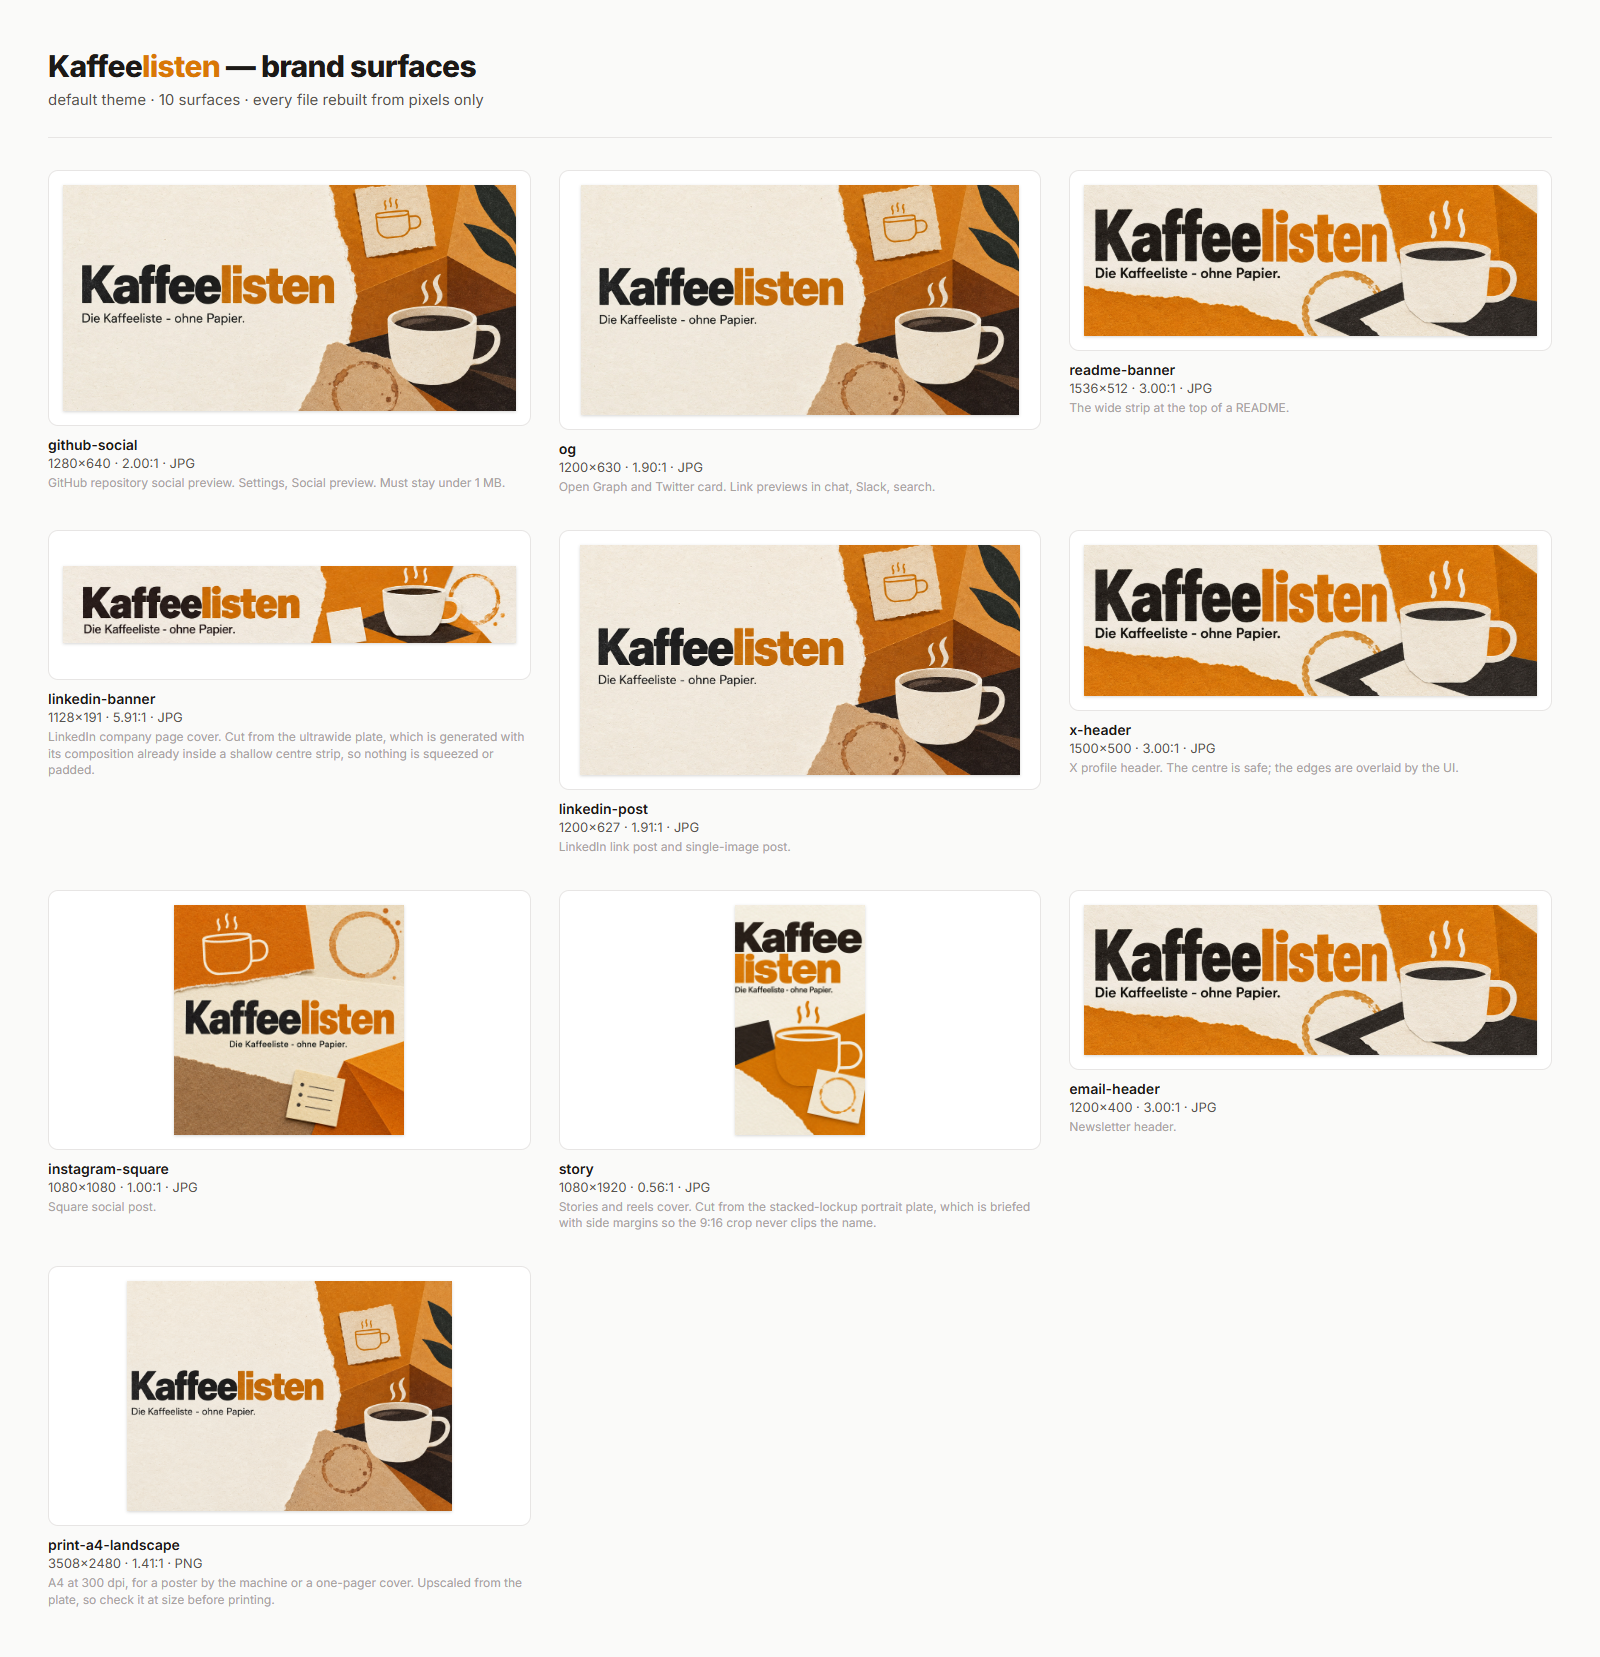
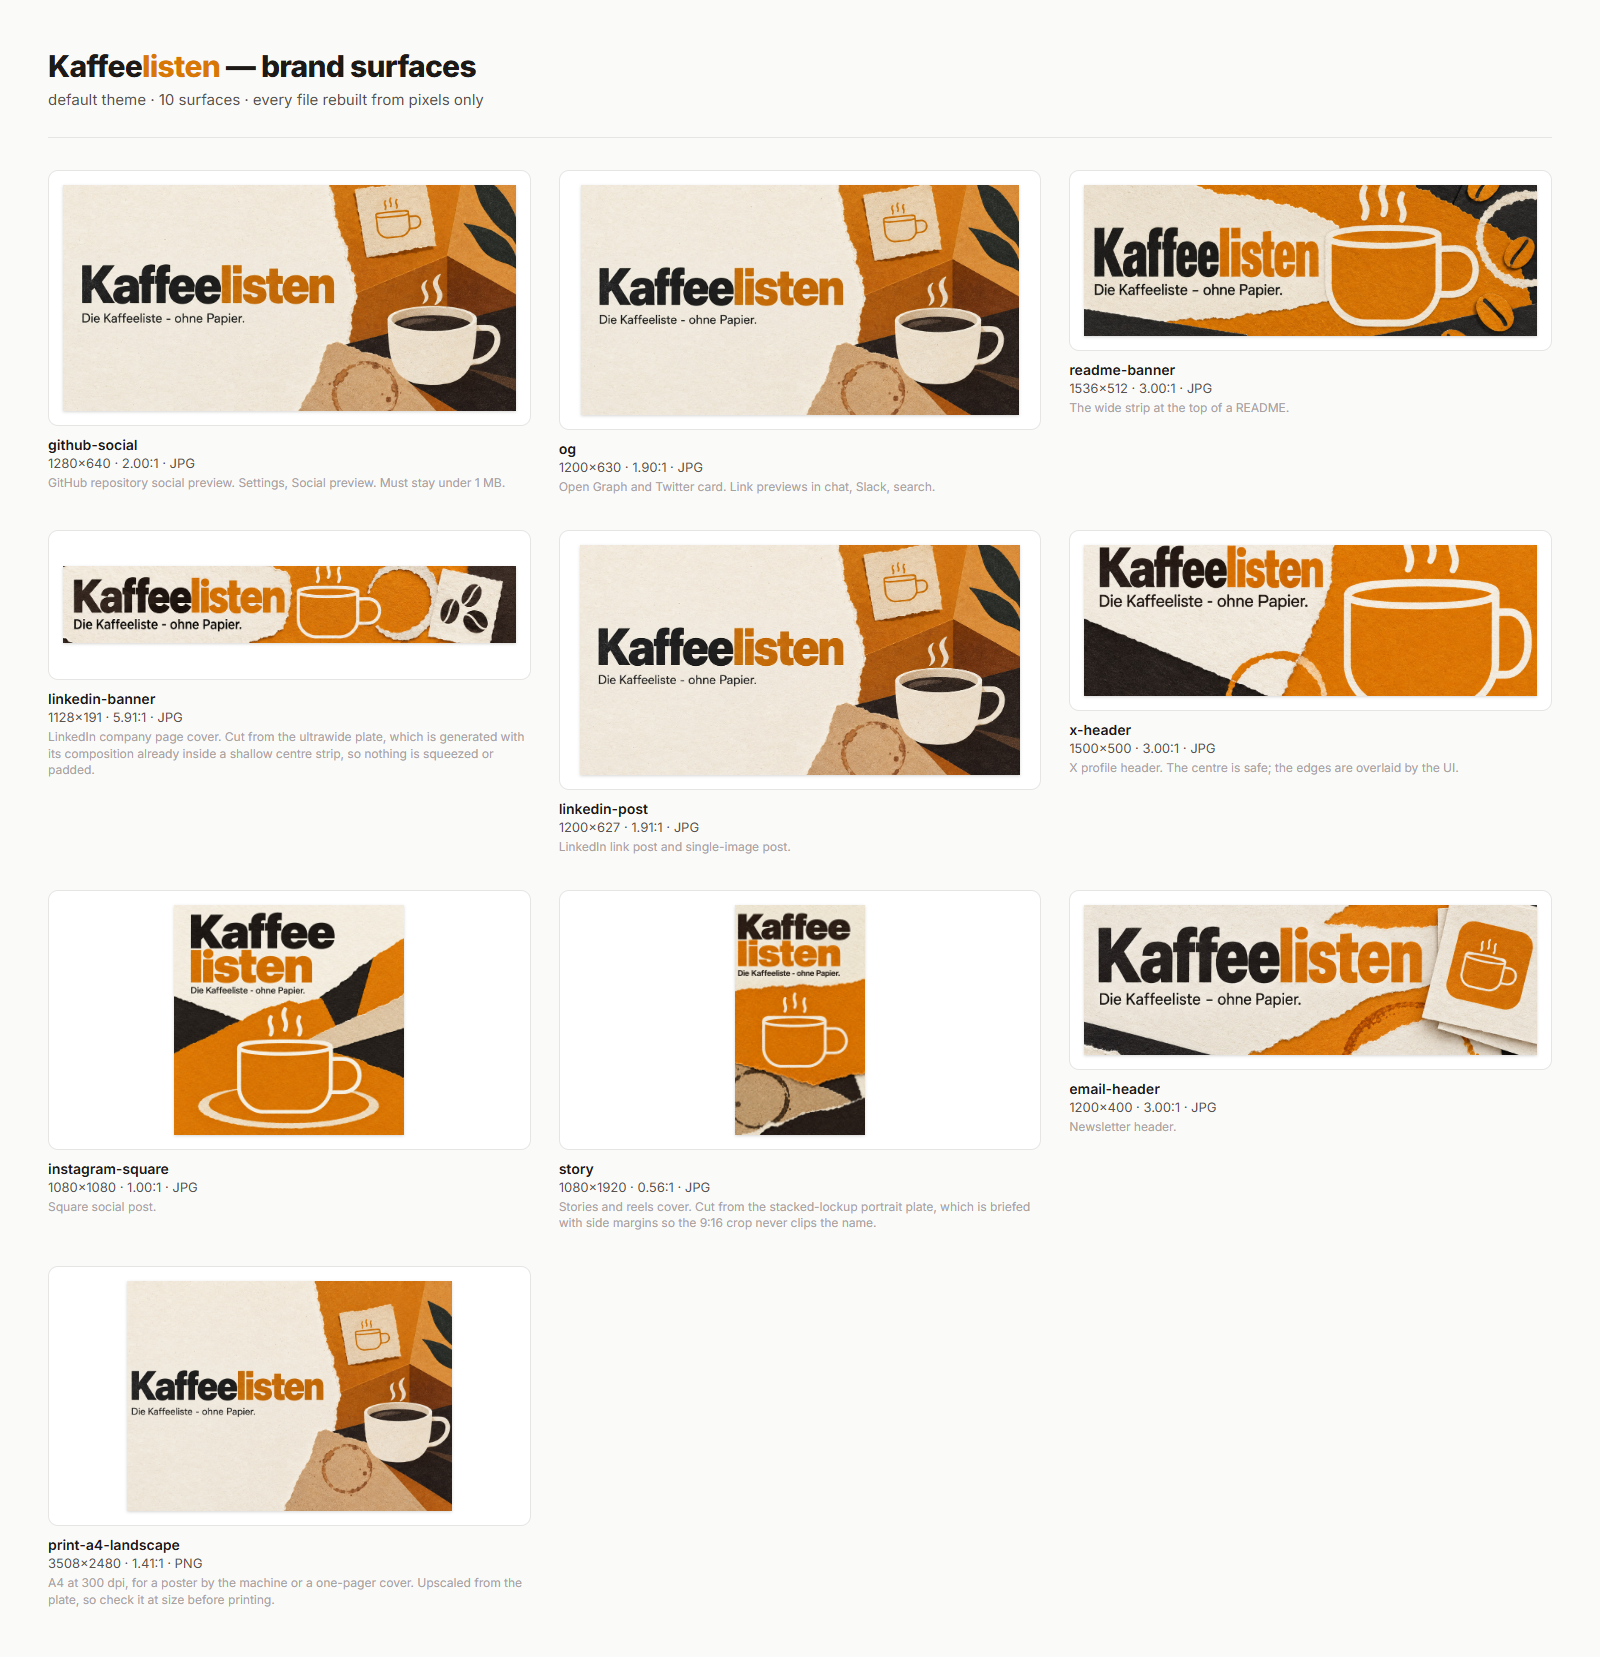
feat(brand): regenerate the six weak surfaces, each with its own composition
They were all briefed toward empty margins, which stripped out the density and
layering that make the strong ones read as branding. Each now has a distinct
creative direction rather than being one template resized.

diff --git a/brand/BRAND.md b/brand/BRAND.md
@@ -123,13 +123,20 @@ python -I tools/gen_texture.py <format> [theme] [n] [round]
 Formats are composition briefs, not just sizes. The API only returns 1:1, 3:2 and 2:3, so each
 one describes **where in the frame the composition must sit** for its family of crops:
 
-| Format | Brief | Feeds |
+| Format | Its own composition | Feeds |
 |---|---|---|
-| `banner` | Calm left half, art in the right half | social preview, og, LinkedIn post, print |
-| `wide3` | Everything inside the **middle half**, edge to edge | the 3:1 family: README, X header, email |
-| `ultrawide` | Everything inside the **middle quarter** | LinkedIn cover, 5.9:1 |
-| `square` | Lettering across the middle, art around it | square posts |
-| `portrait` | **Stacked** lockup, side margins kept clear | stories, 9:16 |
+| `banner` | Torn vertical edge, calm paper left, dense amber field right | social preview, og, LinkedIn post, print |
+| `wide3` | Panoramic counter, layered bands running edge to edge | README strip |
+| `xheader` | One huge amber field, cup reversed out, high contrast | X header |
+| `emailheader` | Type-led and editorial, one amber diagonal, a stack of notes | newsletter |
+| `ultrawide` | A frieze: elements marching across a shallow centre strip | LinkedIn cover, 5.9:1 |
+| `square` | Centred poster, stacked lockup, cup as hero | square posts |
+| `portrait` | A tall stack read top to bottom, side margins kept clear | stories, 9:16 |
+
+**Each one is a different picture, not the same picture resized.** That is the difference between
+a kit that feels designed and one that feels templated — and it is the thing that went wrong the
+first time, when every format was briefed toward empty margins and arrived sparse and weak.
+Density, layering and balance are what make these read as branding.
 
 Candidates land in `out/`, metadata already stripped.
 
